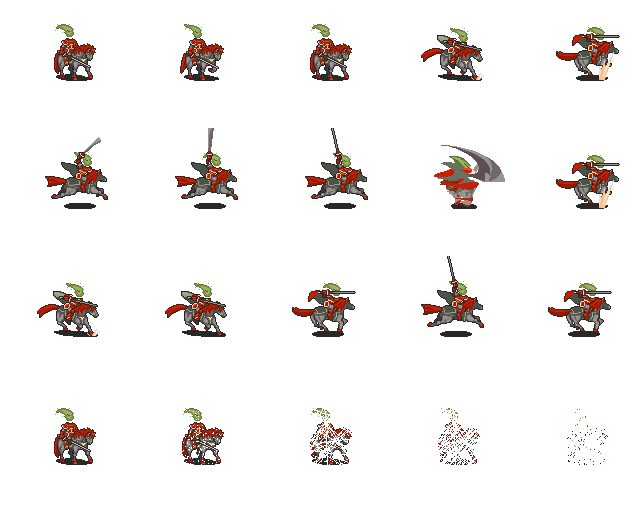
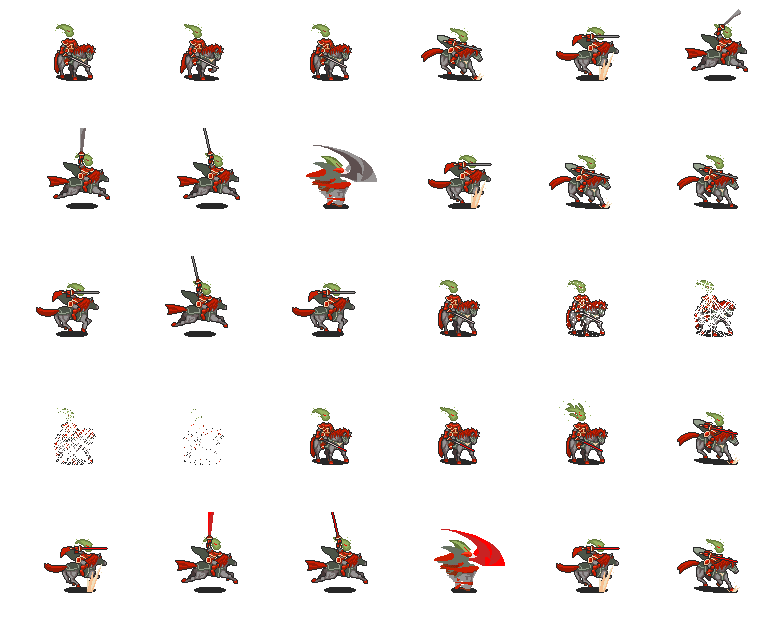
Abilities Animations + Obstacles

diff --git a/Drakhtar/Structures/Game.cpp b/Drakhtar/Structures/Game.cpp
@@ -75,22 +75,28 @@ void Game::load() {
       ->addAnimation("attack", {2, 3, 4, 5, 6, 7, 8})
       ->addAnimation("walk", {9, 10}, 4)
       ->addAnimation("death", {11, 12, 13, 14, 15});
-  textures->add("Units-Thassa", "../images/Units/Thassa.png", 5, 4)
+  textures->add("Units-Thassa", "../images/Units/Thassa.png", 7, 6)
       ->addAnimation("default", {0, 1})
       ->addAnimation("attack", {2, 3, 4, 5, 6, 7, 8})
       ->addAnimation("walk", {9, 10, 11, 12, 13}, 5)
-      ->addAnimation("death", {14, 15, 16, 17, 18});
-  textures->add("Units-Abeizhul", "../images/Units/Abeizhul.png", 5, 4)
+      ->addAnimation("death", {14, 15, 16, 17, 18})
+      ->addAnimation("ability1", {19, 20, 21, 22, 23, 24, 25, 26, 27})
+      ->addAnimation("ability2", {28, 29, 30, 31, 32, 33, 34, 35, 36, 37});
+  textures->add("Units-Abeizhul", "../images/Units/Abeizhul.png", 7, 6)
       ->addAnimation("default", {0, 1})
       ->addAnimation("attack", {2, 3, 4, 5, 6, 7, 8, 9})
       ->addAnimation("walk", {10, 11}, 4)
       ->addAnimation("death", {12, 13, 14, 15, 16})
+      ->addAnimation("ability1", {17, 18, 19, 20, 21, 22, 23, 24, 25})
+      ->addAnimation("ability2", {26, 27, 28, 29, 30, 31})
+      ->addAnimation("ability3", {32, 33, 34, 35, 36, 37})
       ->setFlip(SDL_FLIP_HORIZONTAL);
-  textures->add("Units-Dreilay", "../images/Units/Dreilay.png", 5, 4)
+  textures->add("Units-Dreilay", "../images/Units/Dreilay.png", 6, 5)
       ->addAnimation("default", {0, 1})
       ->addAnimation("attack", {2, 3, 4, 5, 6, 7, 8, 9, 10})
       ->addAnimation("walk", {11, 12, 13, 14}, 4)
       ->addAnimation("death", {15, 16, 17, 18, 19})
+      ->addAnimation("ability1", {20, 21, 22, 23, 24, 25, 26, 27, 28, 29})
       ->setFlip(SDL_FLIP_HORIZONTAL)
       ->setScale({1.5, 1.5});
   textures->add("Units-RedArcher", "../images/Units/RedArcher.png", 5, 4)
@@ -124,29 +130,48 @@ void Game::load() {
       ->addAnimation("walk", {9, 10}, 4)
       ->addAnimation("death", {11, 12, 13, 14, 15})
       ->setFlip(SDL_FLIP_HORIZONTAL);
-  textures->add("Units-Sheissah", "../images/Units/Sheissah.png", 4, 4)
+  textures->add("Units-Sheissah", "../images/Units/Sheissah.png", 5, 5)
       ->addAnimation("default", {0, 1})
       ->addAnimation("attack", {2, 3, 4, 5, 6, 7, 8})
       ->addAnimation("walk", {9, 10}, 4)
       ->addAnimation("death", {11, 12, 13, 14, 15})
+      ->addAnimation("ability1", {16, 17, 18, 19, 20})
       ->setFlip(SDL_FLIP_HORIZONTAL);
   textures->add("Units-BlueValar", "../images/Units/BlueValar.png", 5, 4)
       ->addAnimation("default", {0, 1})
       ->addAnimation("attack", {2, 3, 4, 5, 6, 7, 8, 9, 10})
       ->addAnimation("walk", {11, 12}, 4)
       ->addAnimation("death", {13, 14, 15, 16, 17});
-  textures->add("Units-RedValar", "../images/Units/RedValar.png", 5, 4)
+  textures->add("Units-RedValar", "../images/Units/RedValar.png", 6, 5)
       ->addAnimation("default", {0, 1})
       ->addAnimation("attack", {2, 3, 4, 5, 6, 7, 8, 9, 10})
-      ->addAnimation("walk", {11, 12}, 4)
-      ->addAnimation("death", {13, 14, 15, 16, 17})
+      ->addAnimation("walk", {11, 12, 13, 14, 15, 16}, 4)
+      ->addAnimation("death", {17, 18, 19, 20, 21})
+      ->addAnimation("ability1", {22, 23, 24, 25, 26, 27})
       ->setFlip(SDL_FLIP_HORIZONTAL);
-  textures->add("Units-Zamdran", "../images/Units/Zamdran.png", 5, 4)
+  textures->add("Units-Zamdran", "../images/Units/Zamdran.png", 6, 5)
       ->addAnimation("default", {0, 1})
       ->addAnimation("attack", {2, 3, 4, 5, 6, 7, 8, 9, 10, 11, 12})
       ->addAnimation("walk", {13, 14}, 4)
       ->addAnimation("death", {15, 16, 17, 18, 19})
+      ->addAnimation("ability1", {20, 21, 22, 23, 24, 25, 26, 27})
       ->setFlip(SDL_FLIP_HORIZONTAL);
+
+  // Obstacles
+  textures->add("Obstacle-BottomTruck", "../images/Obstacles/BottomTruck.png", 1, 1)
+      ->addAnimation("default", {0});
+  textures->add("Obstacle-Box", "../images/Obstacles/Box.png", 1, 1)
+      ->addAnimation("default", {0});
+  textures->add("Obstacle-Fence", "../images/Obstacles/Fence.png", 1, 1)
+      ->addAnimation("default", {0});
+  textures->add("Obstacle-Rock", "../images/Obstacles/Rock.png", 1, 1)
+      ->addAnimation("default", {0});
+  textures->add("Obstacle-TopTruck", "../images/Obstacles/TopTruck.png", 1, 1)
+      ->addAnimation("default", {0});
+  textures->add("Obstacle-Torch", "../images/Obstacles/Torch.png", 1, 1)
+      ->addAnimation("default", {0});
+  textures->add("Obstacle-Trees", "../images/Obstacles/Trees.png", 1, 1)
+      ->addAnimation("default", {0});
 
   // UI
   textures->add("UI-cellFrame", "../images/UI/cellFrame.png", 1, 1);
